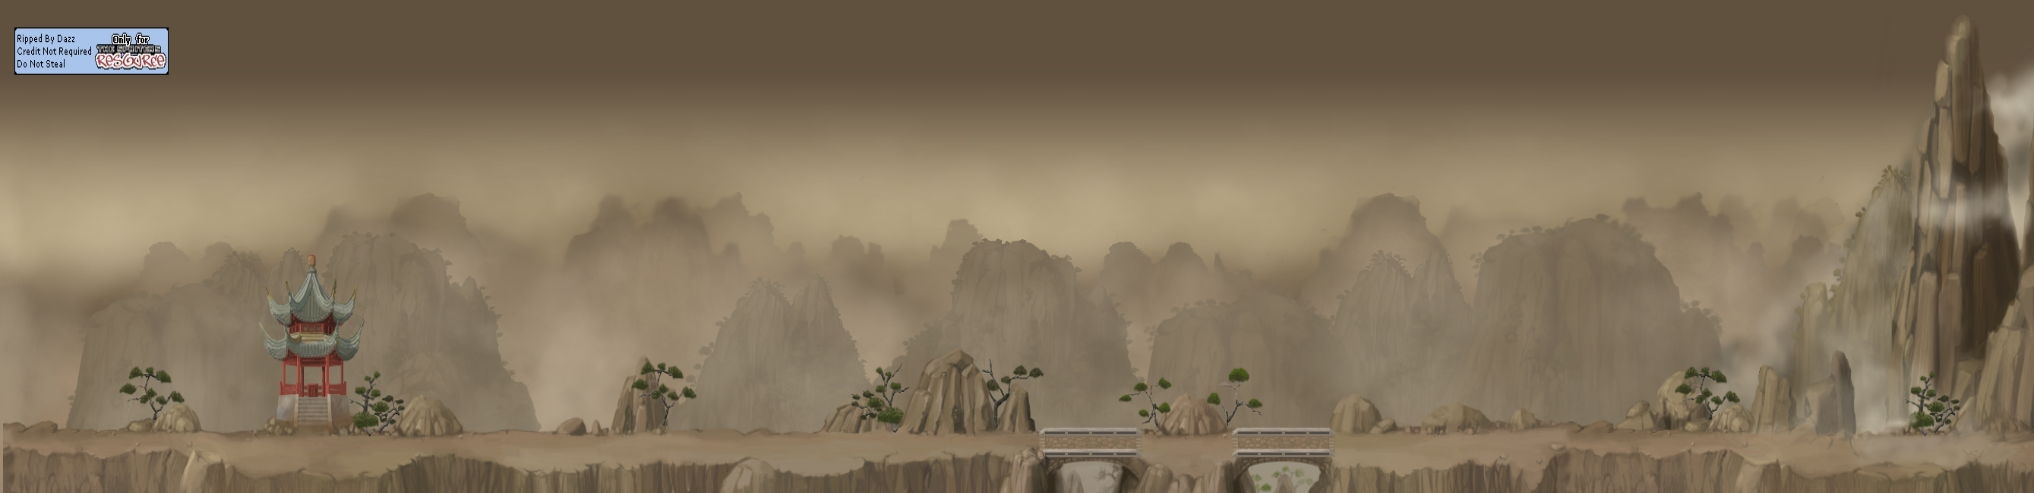
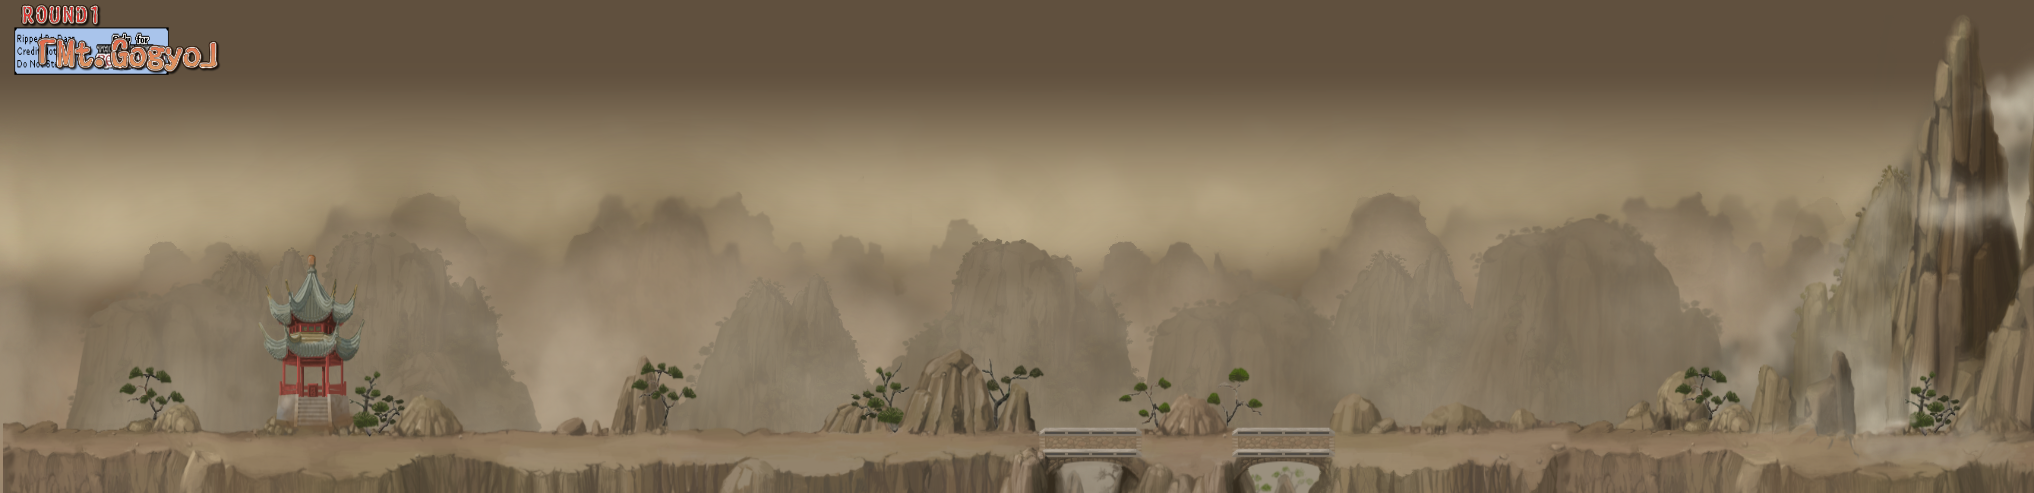
스테이지 1 리소스 수정
2015180036 장영진 커밋횟수 43회

스테이지 1 레벨 표시 리소스 수정

Changed region(s): [[0.0, 0.0, 0.1239, 0.1521]]

diff --git a/Drills/Drill-12/boy.py b/Drills/Drill-12/boy.py
@@ -300,7 +300,7 @@ class Boy:
             self.cur_state.enter(self, event)
 
     def draw(self):
-
+0000000
         self.cur_state.draw(self)
 
         self.font.draw(self.x - 60, self.y + 50, '(Time:%3.2f)' % get_time(), (255, 255, 0))
